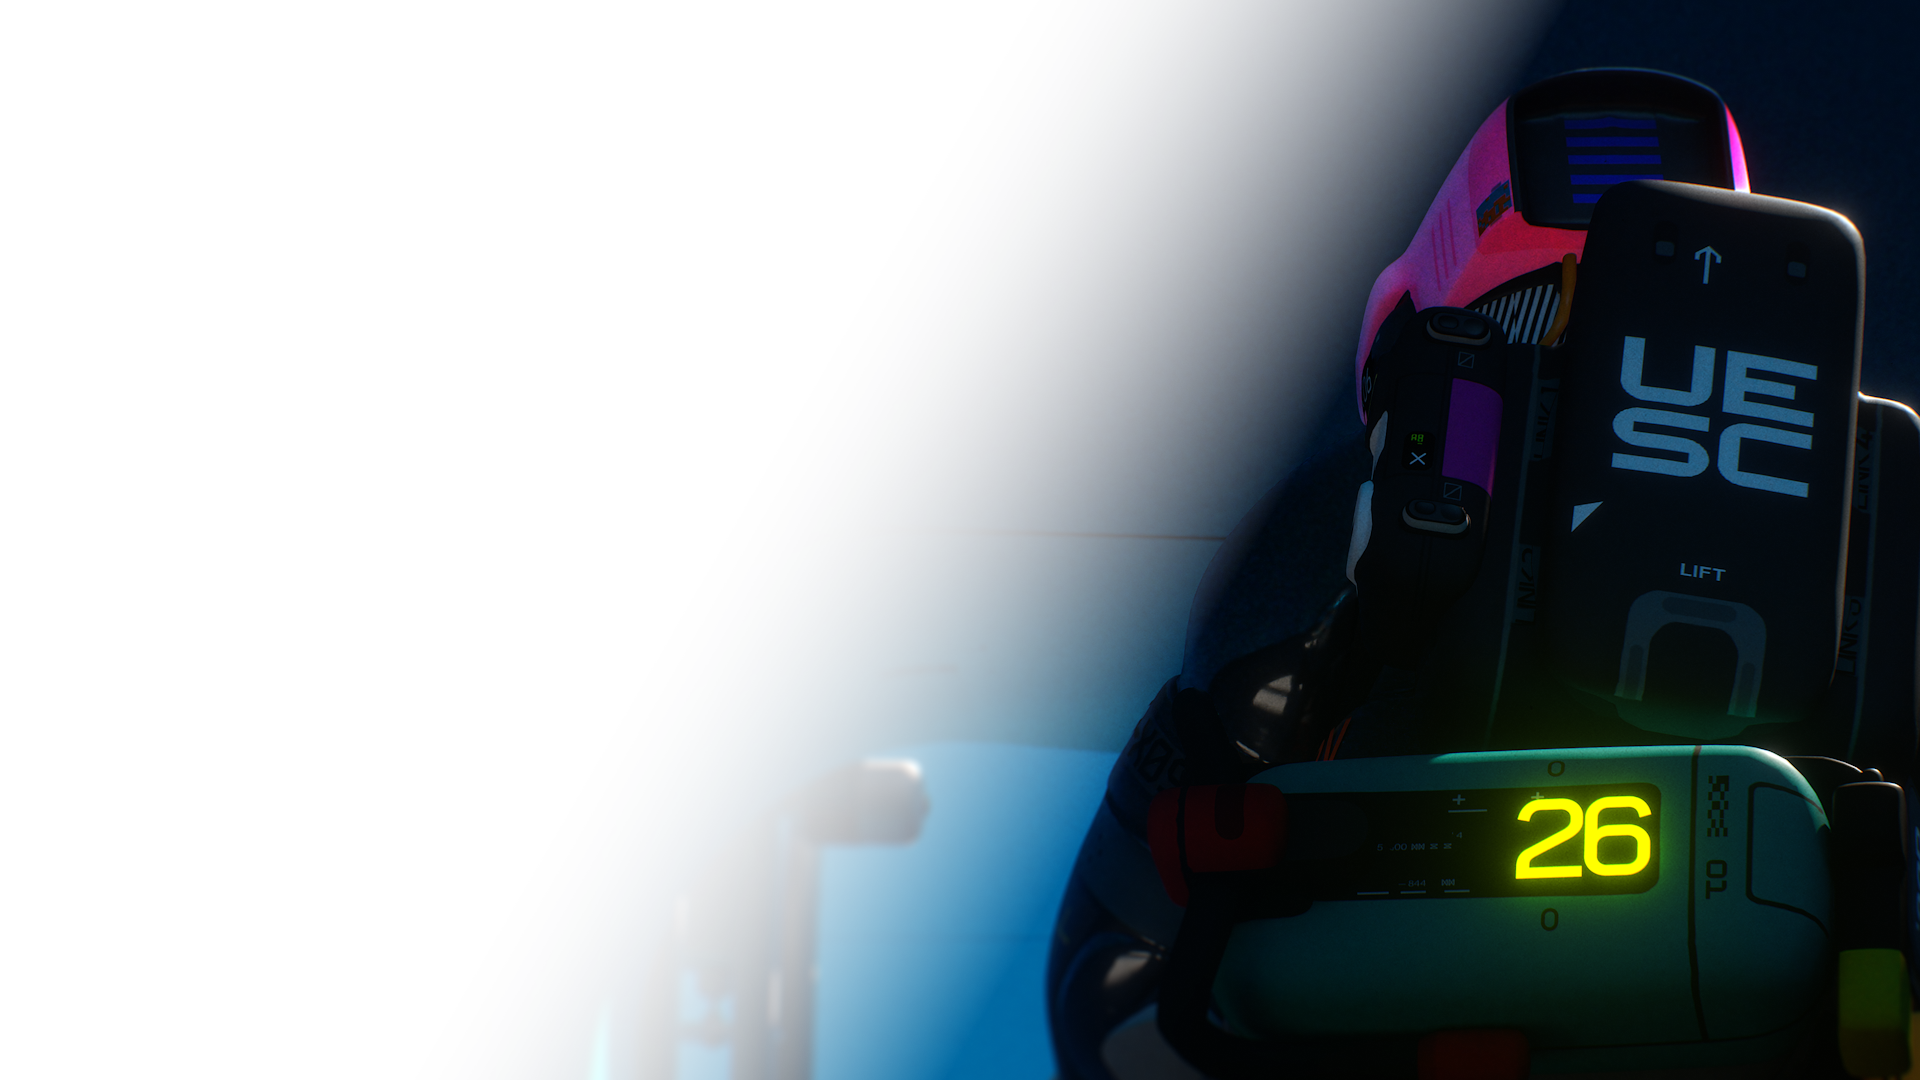
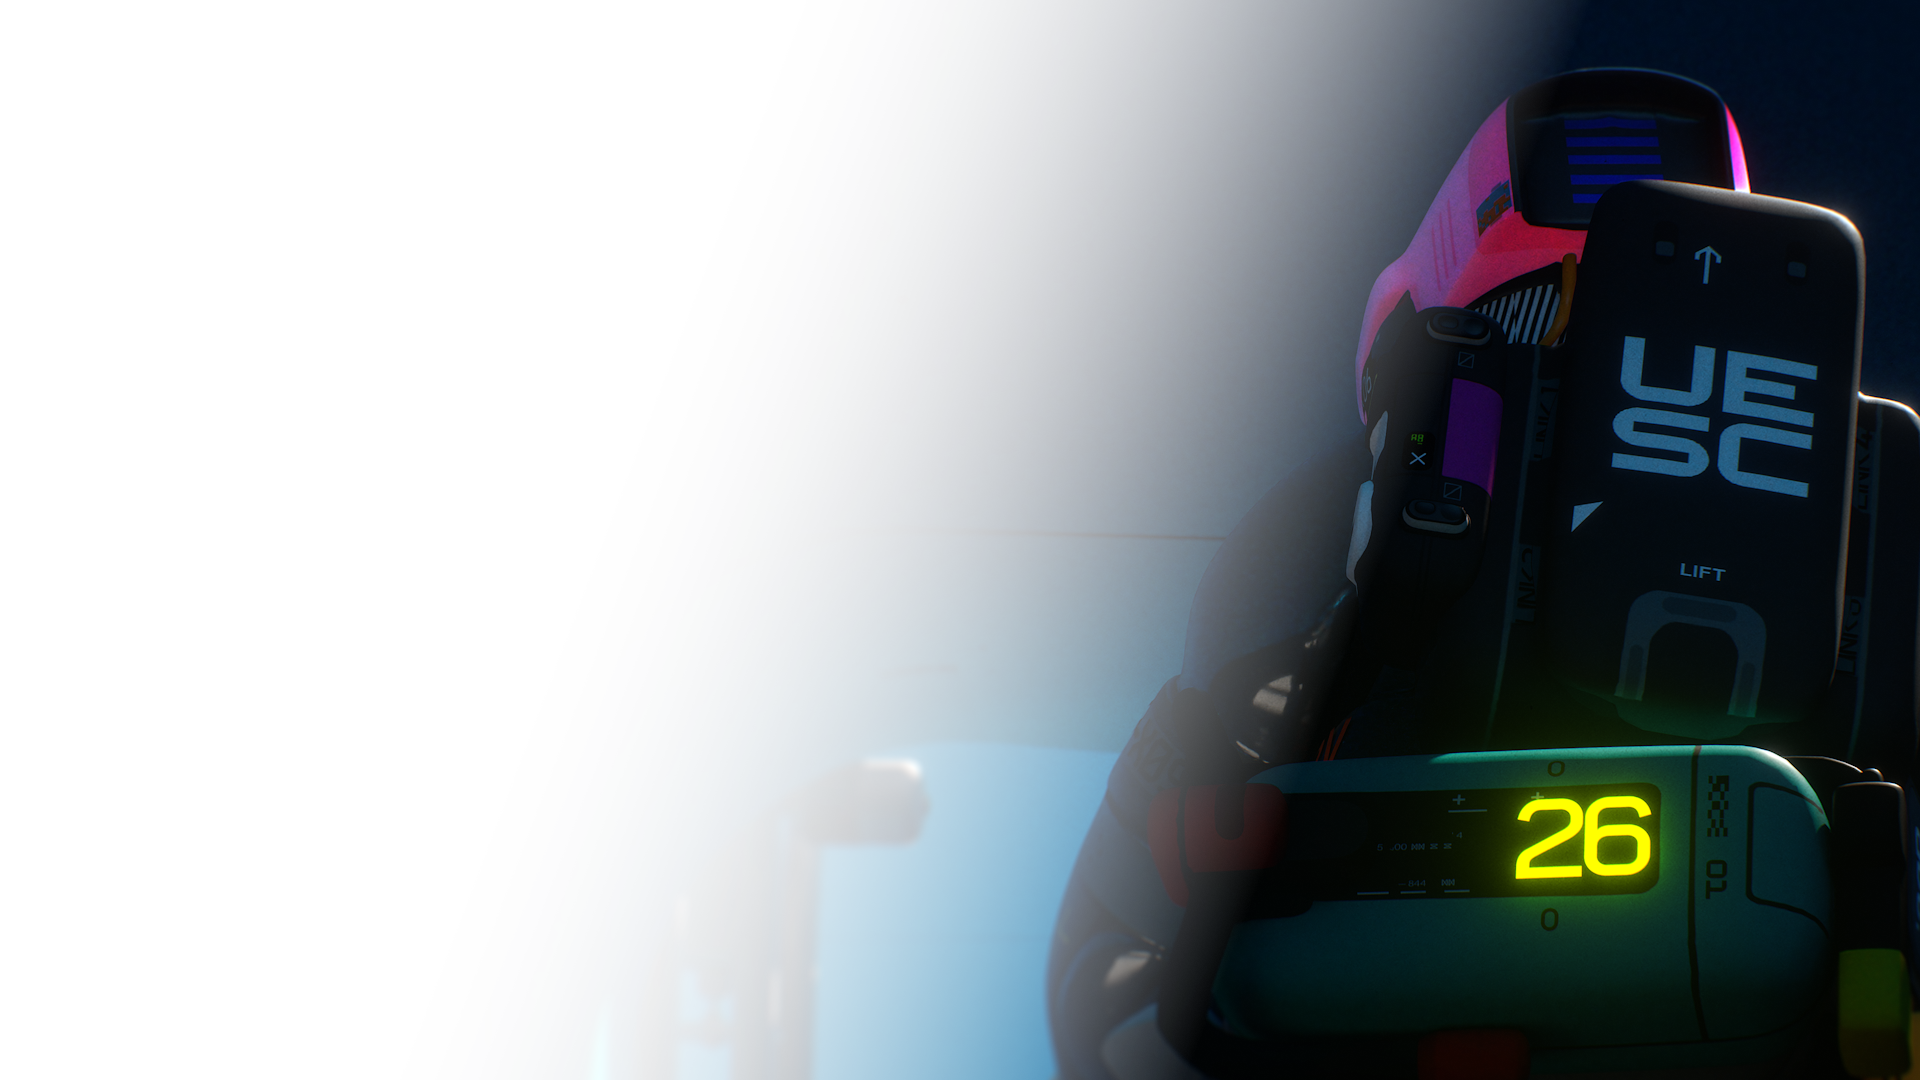
new background images

Changed region(s): [[0.3438, 0.0611, 0.8125, 1.0], [0.5312, 0.0, 0.75, 0.2139]]

diff --git a/downloads.html b/downloads.html
@@ -24,7 +24,7 @@
         <meta name="author" content="Sylenth">
         <!-- and now the main event -->
     </head>
-    <body style="background-image: url(assets/images/backgrounds/marathon_2023.webp);">
+    <body style="background-image: url(assets/images/backgrounds/marathon_2025_blackbird.webp);">
         <main class="d-flex flex-nowrap">
             <!-- Sidebar Start -->
             <div class="d-flex flex-column flex-shrink-0 bg-body-tertiary" style="width: 5rem; min-height: 100vh; background-color: black !important;" data-bs-theme="dark">
